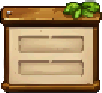
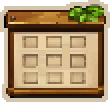
Adición de la interfaz de inventario y los recursos de fondo
Se Introdujo un nuevo componente de Inventario y los recursos relacionados; se añadió una imagen de fondo principal y la conexión del estado del inventario.

-resourceStore.js: agrega la señal isInventoryOpen para controlar el estado del inventario.

-MainUI.tsx: importa FondoMain e Inventory, muestra la imagen de fondo a pantalla completa e incluye la superposición (overlay) del Inventario.
TopHeader.tsx: abre el inventario mediante el botón “Inventario” (usa isInventoryOpen).

-Se añadieron/actualizaron múltiples recursos de imagen para el inventario y los HUDs, y se ajustaron detalles de layout en GameArea y RightSigns (se eliminó la imagen de la maceta y se ajustaron tamaños) para adaptarse a la nueva interfaz.

diff --git a/Front/Imaginatio Web Front/src/components/dashboard/Inventory.tsx b/Front/Imaginatio Web Front/src/components/dashboard/Inventory.tsx
@@ -1,0 +1,99 @@
+import { isInventoryOpen } from "../../store/resourceStore";
+import fondoInventario from "../../assets/Recursos inventario/Fondo_Inventario.png";
+import panelHudInventario from "../../assets/Recursos inventario/Panel_HUDInventario.png";
+
+export default function Inventory() {
+  if (!isInventoryOpen.value) return null;
+
+  return (
+    <div className="fixed inset-0 z-50 flex items-center justify-center bg-black/60 pointer-events-auto backdrop-blur-sm">
+      {/* Main Inventory Container */}
+      <div className="relative w-[90%] max-w-4xl aspect-[16/9] flex flex-col items-center justify-start p-6 rounded-lg shadow-2xl overflow-hidden border-8 border-[#6b4226]">
+
+        {/* Fondo_Inventario */}
+        <div className="absolute inset-0 z-0">
+          <img src={fondoInventario.src} alt="Fondo Inventario" className="w-full h-full object-fill opacity-90" />
+        </div>
+
+        {/* Panel_HUDInventario */}
+        <div className="relative z-10 w-full mb-4 flex items-center justify-between px-8 py-2">
+          <div className="absolute inset-x-0 top-0 bottom-0 z-0">
+            <img src={panelHudInventario.src} alt="HUD Inventario" className="w-full h-full object-contain" />
+          </div>
+
+          {/* HUD Content - Positioned over the resource */}
+          <div className="relative z-10 w-full flex items-center justify-between h-14 lg:h-16 px-4">
+            {/* Left: Plant Growth Stages */}
+            <div className="flex gap-3 items-center h-full ml-4">
+              {[1, 2, 3, 4].map((i) => (
+                <div key={i} className="w-8 h-8 lg:w-10 lg:h-10 border-2 border-[#4e342e]/30 rounded flex items-center justify-center">
+                  <span className="text-[10px] grayscale brightness-125">🪴</span>
+                </div>
+              ))}
+            </div>
+
+            {/* Center: Bells / Notifications */}
+            <div className="flex gap-3 items-center h-full">
+              {[1, 2, 3].map((i) => (
+                <div key={i} className="w-8 h-8 lg:w-10 lg:h-10 border-2 border-[#4e342e]/30 rounded flex items-center justify-center">
+                  <span className="text-[10px] grayscale brightness-125">🔔</span>
+                </div>
+              ))}
+            </div>
+
+            {/* Right: Environment Icons */}
+            <div className="flex gap-3 items-center h-full mr-4">
+              {[1, 2, 3, 4, 5].map((i) => (
+                <div key={i} className="w-8 h-8 lg:w-10 lg:h-10 border-2 border-[#4e342e]/30 rounded flex items-center justify-center">
+                  <span className="text-[10px] grayscale brightness-125">🌄</span>
+                </div>
+              ))}
+            </div>
+          </div>
+        </div>
+
+        {/* Inventory Grid Slots - Scrollable Area */}
+        <div className="relative z-10 w-full flex-1 overflow-y-auto px-4 pb-12 mt-2
+                        scrollbar-thin scrollbar-thumb-[#6b4226] scrollbar-track-[#8d6e63]">
+          <div className="grid grid-cols-4 gap-6 p-4">
+            {[...Array(24)].map((_, index) => (
+              <div key={index} className="relative aspect-square bg-[#d7ccc8] border-8 border-[#8d6e63] rounded-xl shadow-lg flex flex-col items-center justify-center overflow-hidden transition-transform hover:scale-105">
+                {/* Wood Grain Pattern in Slot */}
+                <div className="absolute inset-0 opacity-10"
+                  style={{ backgroundImage: 'repeating-linear-gradient(45deg, #000, #000 5px, transparent 5px, transparent 10px)' }}></div>
+
+                {/* If first two slots, show mock plants */}
+                {index < 2 ? (
+                  <div className="w-full h-full flex flex-col items-center justify-center relative p-2">
+                    <span className="text-4xl lg:text-6xl mb-auto">🌿</span>
+                    {/* Mock Stats/Badges */}
+                    <div className="absolute bottom-4 left-4 right-4 flex justify-between items-center bg-black/20 rounded px-1 py-0.5">
+                      <div className="flex gap-1">
+                        <span className="text-[10px]">☀</span>
+                        <span className="text-[10px]">🪴</span>
+                      </div>
+                      <div className="flex gap-1 bg-white/20 rounded-full px-1">
+                        <span className="text-[10px]">💧</span>
+                        <span className="text-[10px]">🔥</span>
+                      </div>
+                    </div>
+                  </div>
+                ) : (
+                  <span className="text-4xl lg:text-7xl text-green-600 font-bold opacity-40">+</span>
+                )}
+              </div>
+            ))}
+          </div>
+        </div>
+
+        {/* Close Button */}
+        <button
+          onClick={() => isInventoryOpen.value = false}
+          className="absolute top-2 right-2 w-10 h-10 bg-red-600 hover:bg-red-700 text-white font-bold rounded-full border-4 border-[#4e342e] shadow-lg transition-transform active:scale-95 z-20"
+        >
+          X
+        </button>
+      </div>
+    </div>
+  );
+}

diff --git a/Front/Imaginatio Web Front/src/components/dashboard/GameArea.tsx b/Front/Imaginatio Web Front/src/components/dashboard/GameArea.tsx
@@ -3,7 +3,6 @@ import btnMinijuegoComposta from '../../assets/Recursos web media/btn_minijuegoc
 import btnMinijuegoAgua from '../../assets/Recursos web media/btn_MinijuegoAgua.png';
 import panelDescripcionPlanta from '../../assets/Recursos web media/Panel_DescripciónPlanta.png';
 import plantaFase3 from '../../assets/Recursos planta/PlantaFase3.gif';
-import plantaMaceta01 from '../../assets/Recursos web media/Planta_Maceta_01.png';
 
 export default function GameArea() {
    return (
@@ -21,13 +20,8 @@ export default function GameArea() {
                className="relative mb-24 lg:mb-32 flex flex-col items-center pointer-events-auto cursor-pointer hover:scale-105 transition-transform duration-200"
             >
                {/* Plant Image */}
-               <div className="w-64 h-auto lg:w-80 lg:h-auto flex items-center justify-center z-20">
+               <div className="w-64 h-auto lg:w-100 lg:h-auto flex items-center justify-center z-20">
                   <img src={plantaFase3.src} alt="Planta Fase 3" className="w-full h-full object-contain" />
-               </div>
-
-               {/* Pot Image */}
-               <div className="w-48 h-auto -mt-16 lg:-mt-20 z-10">
-                  <img src={plantaMaceta01.src} alt="Maceta" className="w-full h-full object-contain" />
                </div>
             </div>
 

diff --git a/Front/Imaginatio Web Front/src/components/MainUI.tsx b/Front/Imaginatio Web Front/src/components/MainUI.tsx
@@ -3,15 +3,17 @@ import LeftSigns from "./dashboard/LeftSigns";
 import RightSigns from "./dashboard/RightSigns";
 import GameArea from "./dashboard/GameArea";
 import BottomActions from "./dashboard/BottomActions";
+import Inventory from "./dashboard/Inventory";
+import fondoMain from '../assets/Recursos web media/FondoMain.png';
 
 export default function MainUI() {
   return (
     // Fondo general simulando el huerto/Invernadero (Pixel Art Placeholder)
     <div className="flex flex-col h-[100dvh] w-full bg-[#8fb35b] font-sans relative overflow-hidden text-slate-100 transition-all select-none">
-      
-      {/* Background ambiente: un invernadero simple */}
-      <div className="absolute inset-0 z-0 bg-slate-100 flex items-center justify-center">
-         <span className="text-4xl text-slate-300 font-bold select-none">[Img: Gran Fondo Invernadero]</span>
+
+      {/* Background ambiente: un invernadero real - Escalado para mostrar todos los detalles */}
+      <div className="absolute inset-0 z-0">
+        <img src={fondoMain.src} alt="Fondo Invernadero" className="w-full h-full object-fill" />
       </div>
 
       <TopHeader />
@@ -22,6 +24,9 @@ export default function MainUI() {
         <RightSigns />
         <BottomActions />
       </div>
+
+      {/* Modals and Overlays */}
+      <Inventory />
 
     </div>
   )

diff --git a/Front/Imaginatio Web Front/src/components/dashboard/TopHeader.tsx b/Front/Imaginatio Web Front/src/components/dashboard/TopHeader.tsx
@@ -1,3 +1,4 @@
+import { isInventoryOpen } from '../../store/resourceStore';
 import panelHudSuperior from '../../assets/Recursos web media/Panel_HUD_superior.png';
 import panelNombrePlanta from '../../assets/Recursos web media/Panel_NombrePlanta.png';
 import panelAvisoPlanta from '../../assets/Recursos web media/Panel_AvisoPlanta.png';
@@ -32,7 +33,10 @@ export default function TopHeader() {
 
         {/* Right buttons: Inventario y Ayuda */}
         <div className="flex gap-5 shrink-0 mr-10">
-          <div className="w-14 h-14 lg:w-16 lg:h-16 flex items-center justify-center cursor-pointer transition-all duration-150 ease-in-out hover:opacity-60 active:scale-90">
+          <div
+            onClick={() => isInventoryOpen.value = true}
+            className="w-14 h-14 lg:w-16 lg:h-16 flex items-center justify-center cursor-pointer transition-all duration-150 ease-in-out hover:opacity-60 active:scale-90"
+          >
             <img src={btnInventario.src} alt="Inventario" className="w-full h-full object-contain" />
           </div>
           <div className="w-14 h-14 lg:w-16 lg:h-16 flex items-center justify-center cursor-pointer transition-all duration-150 ease-in-out hover:opacity-60 active:scale-90">

diff --git a/Front/Imaginatio Web Front/src/components/dashboard/RightSigns.tsx b/Front/Imaginatio Web Front/src/components/dashboard/RightSigns.tsx
@@ -7,12 +7,12 @@ export default function RightSigns() {
     <div className="absolute right-6 top-16 lg:top-20 flex flex-col items-center z-0 gap-0">
 
       {/* Panel Estado Abono */}
-      <div className="w-50 h-auto z-1 flex flex-col items-center justify-center relative -mt-15">
+      <div className="w-55 h-auto z-1 flex flex-col items-center justify-center relative -mt-25">
         <img src={panelEstadoAbono.src} alt="Estado Abono" className="w-full h-full object-contain" />
       </div>
 
       {/* Panel Estado Composta */}
-      <div className="w-50 h-auto z-0 flex flex-col items-center justify-center relative -mt-5">
+      <div className="w-45 h-auto z-0 flex flex-col items-center justify-center relative -mt-5">
         <img src={panelEstadoComposta.src} alt="Estado Composta" className="w-full h-full object-contain" />
       </div>
 

diff --git a/Front/Imaginatio Web Front/src/store/resourceStore.js b/Front/Imaginatio Web Front/src/store/resourceStore.js
@@ -24,3 +24,6 @@ export function addCompost(amount) {
 
 // Estado del pop up de información de la planta
 export const isPlantInfoOpen = signal(false)
+
+// Estado del inventario
+export const isInventoryOpen = signal(false)
